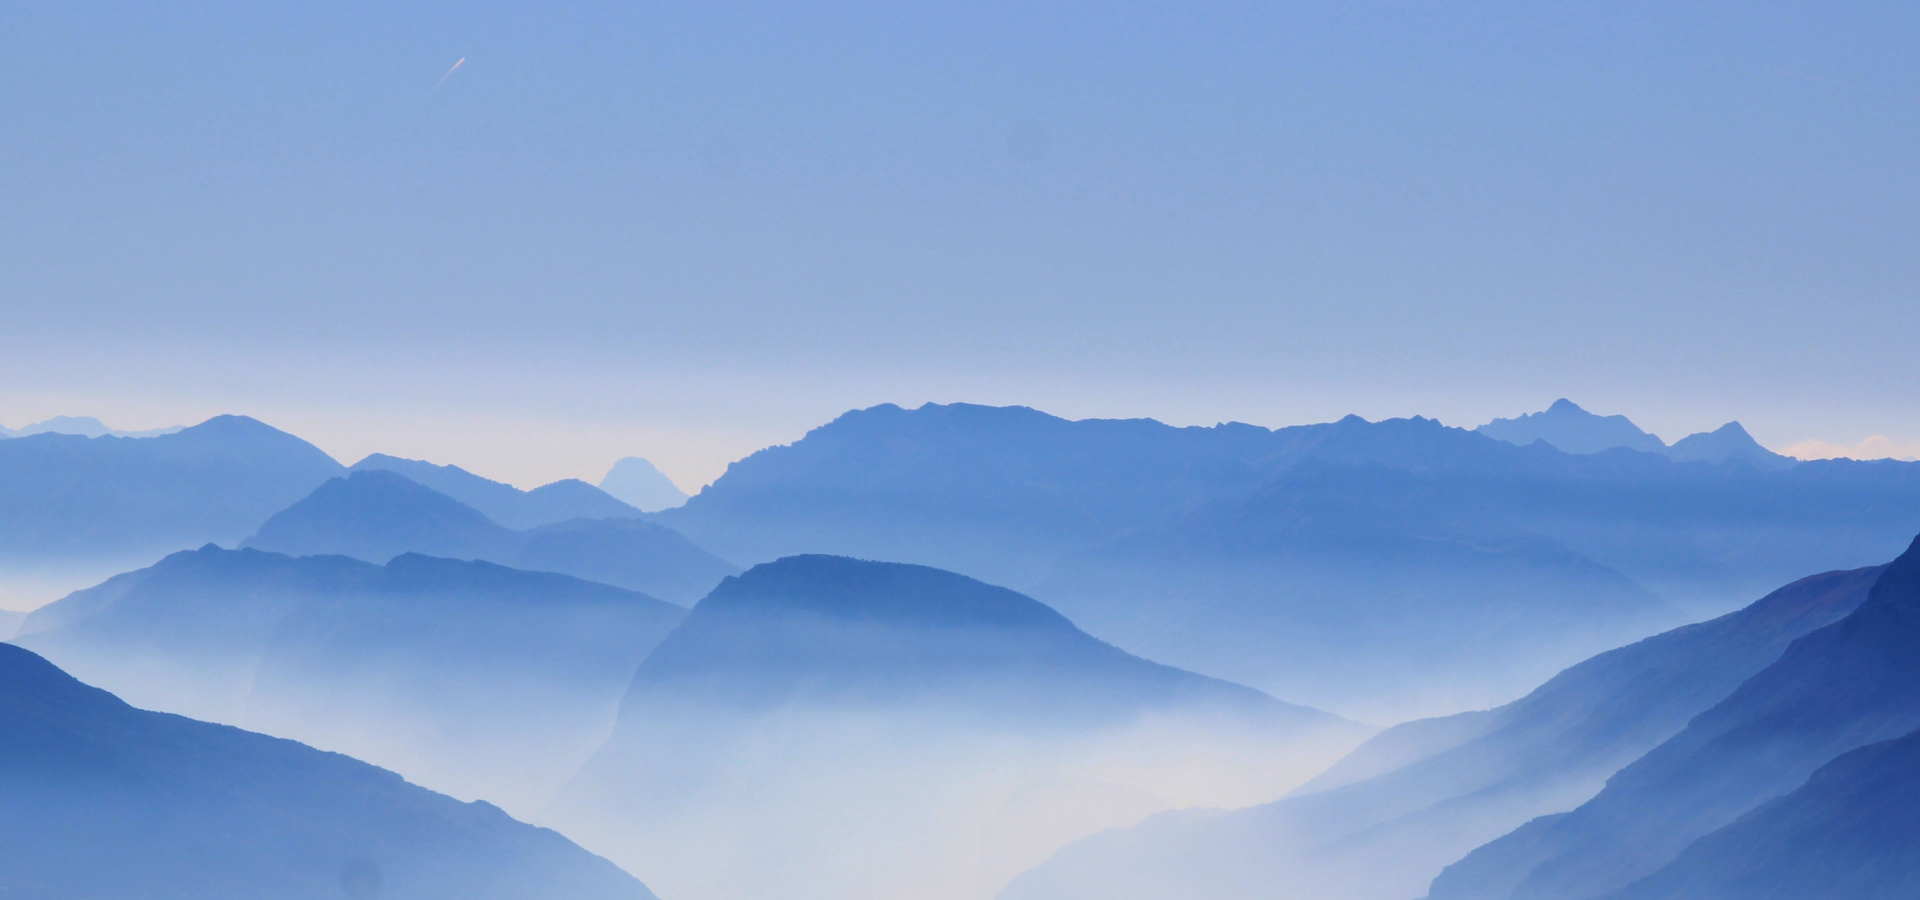
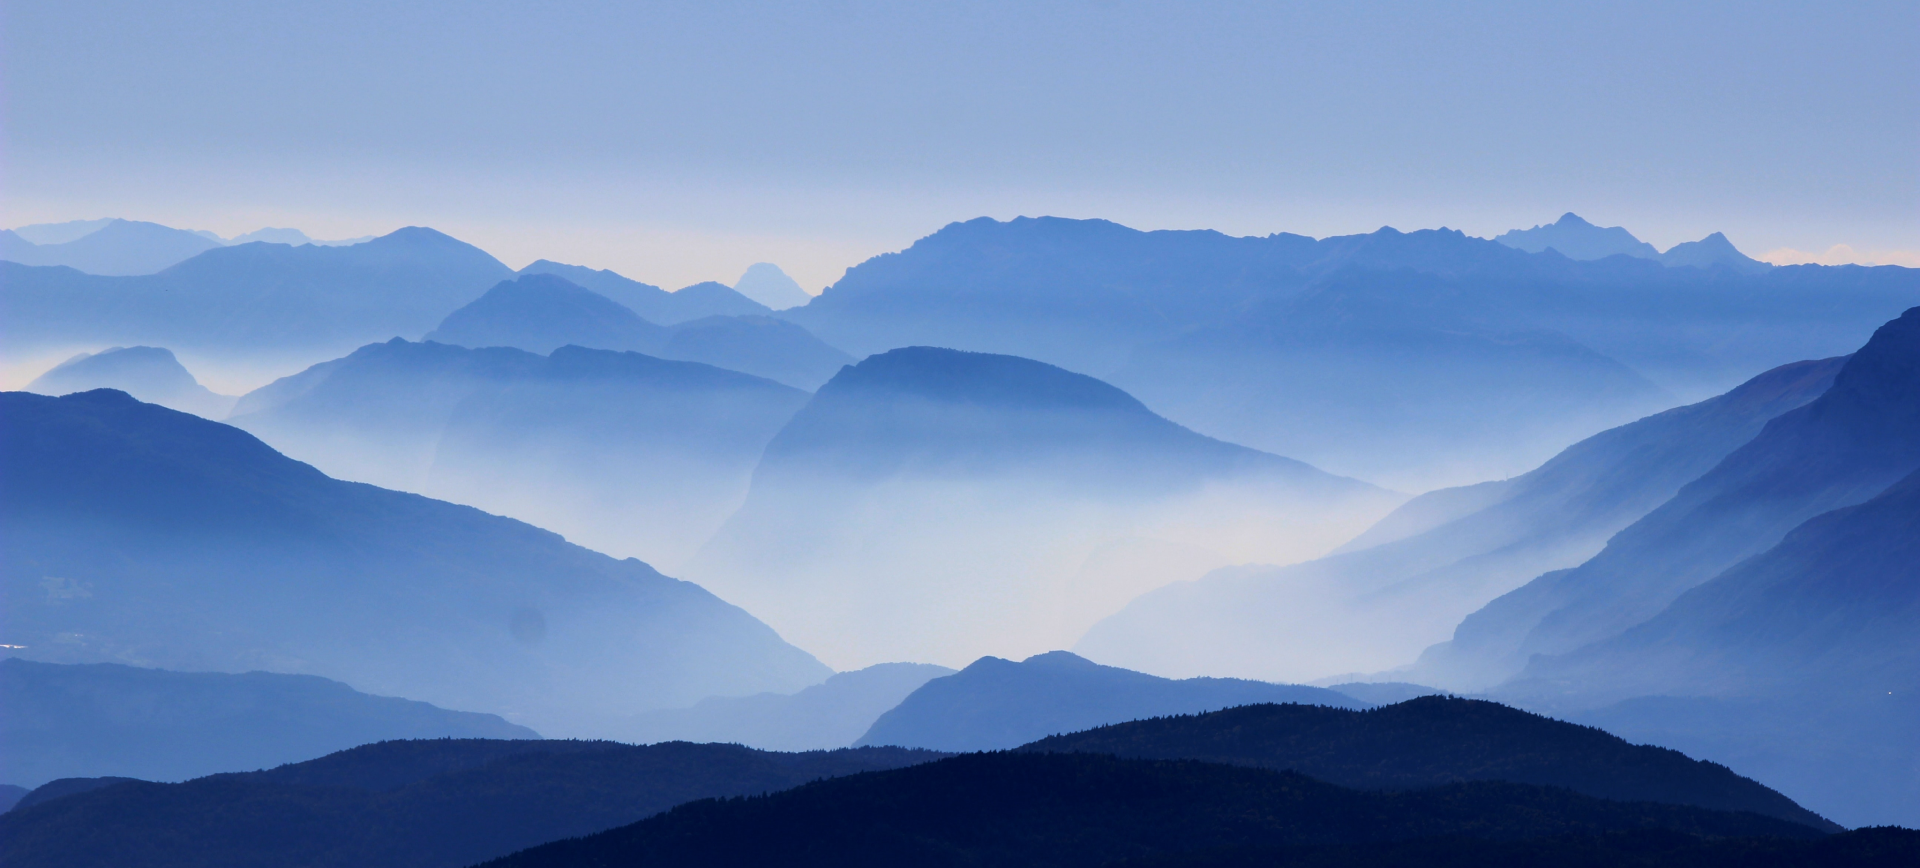
main page padding issues on small devices, main page background replaced with a bigger picture, date selector fully visible on mobile

diff --git a/src/components/search-form/search-form.module.scss b/src/components/search-form/search-form.module.scss
@@ -28,10 +28,14 @@
 .searchButtonContainer{
     width:100%;
     margin: auto;
-    margin-top: 80px;
+
     @include glider-media-medium_768 {
         width: 620px;
     }
+    @include glider-media-small_576 {
+        margin-top: 80px;
+    }
+
 }
 
 .searchButton{

diff --git a/src/pages/main-page-content.module.css b/src/pages/main-page-content.module.css
@@ -1,8 +1,11 @@
-/*@import 'src/styles/mixins';*/
+@import '/src/styles/mixins';
 
-.imgmain{
-    width:70%;
+.imgmain {
+    width: 100%;
     display: flex;
+    @include glider-media-small_576 {
+        width: 80%;
+    }
 }
 
 .content{

diff --git a/src/components/search-form/travel-datepickup.module.scss b/src/components/search-form/travel-datepickup.module.scss
@@ -72,7 +72,8 @@
     box-shadow: none;
     border: 1px solid black;
     border-radius: 2px;
-    width: 480px;
+    max-width: 480px;
+    width:90%;
     transition: none;
 }
 

diff --git a/src/pages/home.module.scss b/src/pages/home.module.scss
@@ -64,5 +64,6 @@
   background-position: center;
   background-size: cover;
   height: 100vh;
+  min-height: 850px;
 }
 
